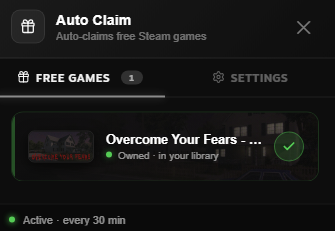
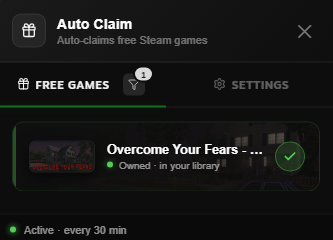
fix: silent claim queue via webkit, real-time indicator and badge updates

diff --git a/frontend/index.tsx b/frontend/index.tsx
@@ -19,6 +19,9 @@ const popScanRequest    = callable<Empty, string>('pop_scan_request_ipc');
 const tryAcquireClaimLock = callable<StrIn, number>('try_acquire_claim_lock_ipc');
 const releaseClaimLock    = callable<StrIn, number>('release_claim_lock_ipc');
 
+const enqueueClaimJob   = callable<StrIn, number>('enqueue_claim_job_ipc');
+const readClaimJob      = callable<StrIn, string>('read_claim_job_ipc');
+
 const STORE_LS_KEY = 'fgg_store_settings';
 
 const _autoclaimIntervals: Array<ReturnType<typeof setInterval>> = [];
@@ -247,50 +250,74 @@ async function addGameToLibrary(appid: number): Promise<boolean> {
   }
 }
 
-async function _addGameToLibraryLocked(appid: number): Promise<boolean> {
-  let result = '0|no result';
+interface QueueClaimResult { state: 'ok' | 'fail' | 'timeout'; reason: string }
+
+const QUEUE_POLL_MS      = 500;
+const QUEUE_TIMEOUT_MS   = 8000;
+
+async function tryClaimViaQueue(appid: number): Promise<QueueClaimResult> {
   try {
-    result = await withTimeout(
-      claimFreeGameLua({ payload: String(appid) }),
-      30000,
-      '0|timeout',
-    );
+    await enqueueClaimJob({ payload: String(appid) });
   } catch (e) {
-    log(`[${appid}] backend claim exception: ${String(e)}`);
+    return { state: 'timeout', reason: 'enqueue failed: ' + String(e) };
   }
 
-  let [status, reason] = (result || '0|').split('|');
-  if (status === '1') {
-    log(`[${appid}] silent claim ok (${reason})`);
+  const deadline = Date.now() + QUEUE_TIMEOUT_MS;
+  while (Date.now() < deadline) {
+    await new Promise((r) => setTimeout(r, QUEUE_POLL_MS));
+    let raw = '';
+    try { raw = await readClaimJob({ payload: String(appid) }); } catch { continue; }
+    if (!raw || raw === '{}') continue;
+    try {
+      const data = JSON.parse(raw);
+      if (data && (data.state === 'ok' || data.state === 'fail')) {
+        return { state: data.state, reason: String(data.reason || '') };
+      }
+    } catch {}
+  }
+  return { state: 'timeout', reason: 'no widget response' };
+}
+
+async function _addGameToLibraryLocked(appid: number): Promise<boolean> {
+  const queueRes = await tryClaimViaQueue(appid);
+
+  if (queueRes.state === 'ok') {
+    log(`[${appid}] silent claim ok via widget queue`);
     return true;
   }
 
-  log(`[${appid}] silent claim failed: ${reason}`);
+  if (queueRes.state === 'fail') {
+    const r = (queueRes.reason || '').toLowerCase();
+    const cookieIssue =
+      r.indexOf('no cookies')      !== -1 ||
+      r.indexOf('no sessionid')    !== -1 ||
+      r.indexOf('session expired') !== -1;
 
-  const r = (reason || '').toLowerCase();
-  const cookieIssue =
-    r.indexOf('no cookies')      !== -1 ||
-    r.indexOf('no sessionid')    !== -1 ||
-    r.indexOf('session expired') !== -1;
-  if (!cookieIssue) return false;
+    if (!cookieIssue) {
+      log(`[${appid}] silent claim refused: ${queueRes.reason}`);
+      return false;
+    }
+    log(`[${appid}] widget session expired — falling back to store flow`);
+  } else {
+    log(`[${appid}] no widget reachable (timeout) — falling back to store flow`);
+  }
 
-  log(`[${appid}] cookies stale — opening store to refresh session`);
   if (await addViaShowStore(appid)) return true;
 
   try {
-    result = await withTimeout(
+    const result = await withTimeout(
       claimFreeGameLua({ payload: String(appid) }),
-      30000,
+      8000,
       '0|timeout',
     );
-    [status, reason] = (result || '0|').split('|');
+    const [status, reason] = (result || '0|').split('|');
     if (status === '1') {
-      log(`[${appid}] silent claim ok after cookie refresh`);
+      log(`[${appid}] silent claim ok via lua after store refresh`);
       return true;
     }
-    log(`[${appid}] retry after cookie refresh still failed: ${reason}`);
+    log(`[${appid}] lua retry after store refresh failed: ${reason}`);
   } catch (e) {
-    log(`[${appid}] retry exception: ${String(e)}`);
+    log(`[${appid}] lua retry exception: ${String(e)}`);
   }
   return false;
 }

diff --git a/webkit/widget-vanilla.ts b/webkit/widget-vanilla.ts
@@ -3,6 +3,7 @@ import {
   loadFreeGamesCacheIPC, loadWidgetSettingsIPC, pushToastIPC, logIPC,
   requestScanIPC, popScanDoneIPC,
   tryAcquireClaimLockIPC, releaseClaimLockIPC,
+  popPendingClaimJobsIPC, completeClaimJobIPC,
 } from './ipc';
 import { isGameOwned, isInLibrary, checkLibraryAsync } from './library';
 import { cfg, initialWidgetRaw, saveSettings } from './settings';
@@ -238,6 +239,9 @@ export function injectVanillaWidget(): void {
     const next = cfg.filterMode === 'games' ? 'all' : 'games';
     cfg.filterMode = next;
     saveSettings();
+    updateFilterBtnState();
+    updateNewIndicator();
+    refreshGamesBadge();
     refreshFooter();
     logIPC({ payload: `Filter mode changed: ${next}` }).catch(() => {});
     activeTab = 'games';
@@ -589,11 +593,18 @@ export function injectVanillaWidget(): void {
               && w.tabStyle !== cfg.tabStyle) {
             cfg.tabStyle = w.tabStyle; changed = true;
           }
+          let filterChanged = false;
           if ((w.filterMode === 'games' || w.filterMode === 'all') && w.filterMode !== cfg.filterMode) {
-            cfg.filterMode = w.filterMode; changed = true;
+            cfg.filterMode = w.filterMode; changed = true; filterChanged = true;
           }
 
           if (changed) applyChrome();
+          if (filterChanged) {
+            updateFilterBtnState();
+            updateNewIndicator();
+            refreshGamesBadge();
+            if (opened && activeTab === 'games') render();
+          }
         } catch {}
       })
       .catch(() => {});
@@ -604,7 +615,77 @@ export function injectVanillaWidget(): void {
     if (!opened) return;
     void softRefresh();
   }, 5000);
-  _fggIntervals.push(settingsPoll, cachePoll);
+
+  let draining = false;
+  async function drainClaimQueue() {
+    if (draining) return;
+    draining = true;
+    try {
+      let raw = '';
+      try { raw = await popPendingClaimJobsIPC(); } catch { return; }
+      let appids: number[] = [];
+      try {
+        const parsed = JSON.parse(raw || '[]');
+        if (Array.isArray(parsed)) {
+          appids = parsed
+            .map((x) => parseInt(String(x), 10))
+            .filter((n) => Number.isFinite(n) && n > 0);
+        }
+      } catch { return; }
+      if (appids.length === 0) return;
+
+      for (const appid of appids) {
+        const acquired = await tryAcquireClaimLockIPC({ payload: String(appid) }).catch(() => 0);
+        if (!acquired) {
+          continue;
+        }
+
+        let res;
+        try {
+          res = await silentClaim(appid);
+        } catch (e) {
+          res = { ok: false, reason: String(e) };
+        } finally {
+          await releaseClaimLockIPC({ payload: String(appid) }).catch(() => {});
+        }
+
+        await completeClaimJobIPC({
+          payload: JSON.stringify({
+            appid,
+            state:  res.ok ? 'ok' : 'fail',
+            reason: res.reason || (res.ok ? 'ok' : 'unknown'),
+          }),
+        }).catch(() => {});
+
+        logIPC({ payload: `[${appid}] queue claim ${res.ok ? 'ok' : 'fail'} (${res.reason})` })
+          .catch(() => {});
+
+        if (res.ok) {
+          ownedSet.add(appid);
+          if (cfg.notifyOnGrab) {
+            const game = games.find((g) => g.appid === appid);
+            if (game) {
+              pushToastIPC({ payload: JSON.stringify({ appid, name: game.name }) }).catch(() => {});
+            }
+          }
+        } else if (res.reason === 'session expired' || res.reason === 'no sessionid') {
+          break;
+        }
+
+        await sleep(800);
+      }
+
+      updateNewIndicator();
+      refreshGamesBadge();
+    } finally {
+      draining = false;
+    }
+  }
+
+  const claimQueuePoll = setInterval(() => { void drainClaimQueue(); }, 2000);
+  void drainClaimQueue();
+
+  _fggIntervals.push(settingsPoll, cachePoll, claimQueuePoll);
 
   window.addEventListener('beforeunload', () => {
     while (_fggIntervals.length) clearInterval(_fggIntervals.pop()!);

diff --git a/webkit/ipc.ts b/webkit/ipc.ts
@@ -24,3 +24,6 @@ export const popScanDoneIPC = callable<Empty, string>('pop_scan_done_ipc');
 
 export const tryAcquireClaimLockIPC = callable<StrIn, number>('try_acquire_claim_lock_ipc');
 export const releaseClaimLockIPC    = callable<StrIn, number>('release_claim_lock_ipc');
+
+export const popPendingClaimJobsIPC = callable<Empty, string>('pop_pending_claim_jobs_ipc');
+export const completeClaimJobIPC    = callable<StrIn, number>('complete_claim_job_ipc');
